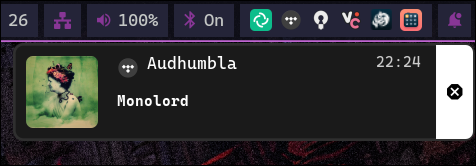
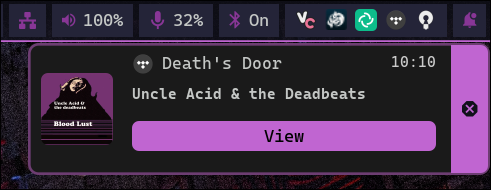
feat: update notifications style

diff --git a/README.md b/README.md
@@ -42,6 +42,7 @@ curl -s https://raw.githubusercontent.com/Times-Z/dotfiles/refs/heads/main/insta
 ### Hyprpanel (with notifications)
 ![Waybar](.assets/bar.jpg)
 ![Notifications](.assets/notifications.jpg)
+![Notifications](.assets/notifications_panel.jpg)
 
 ### Clipboard
 ![Clipboard](.assets/clipboard.jpg)
